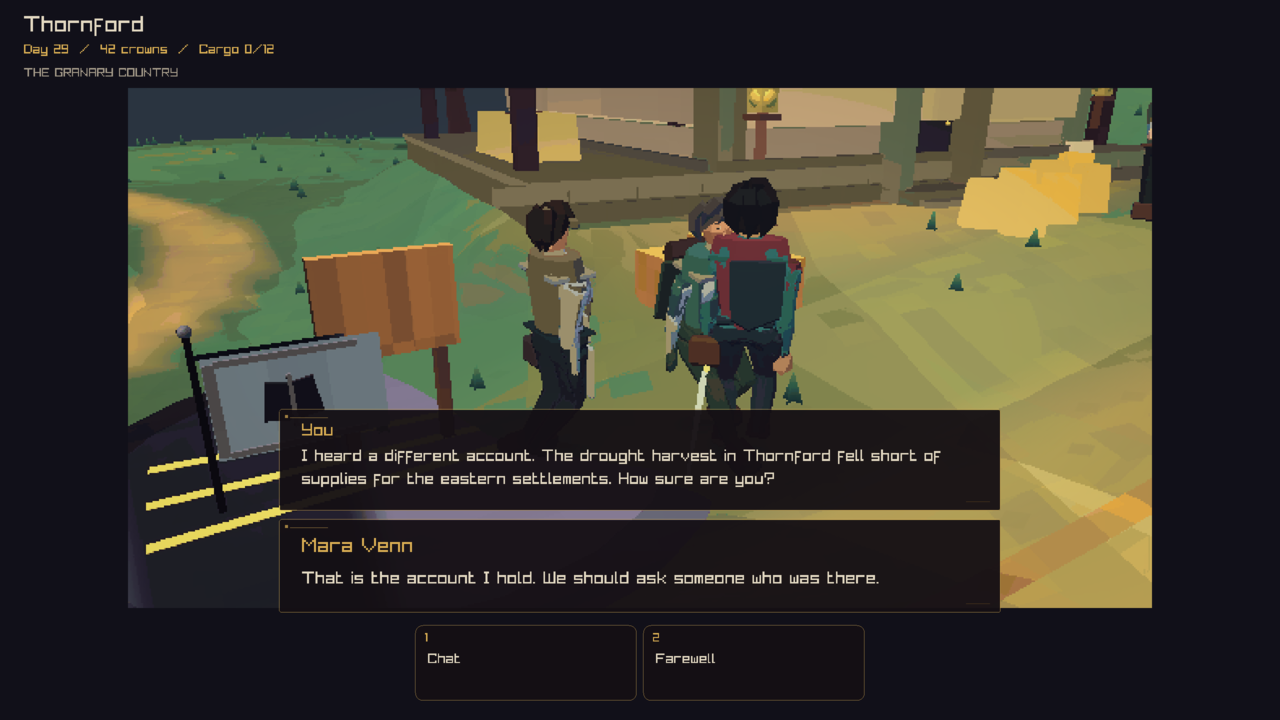
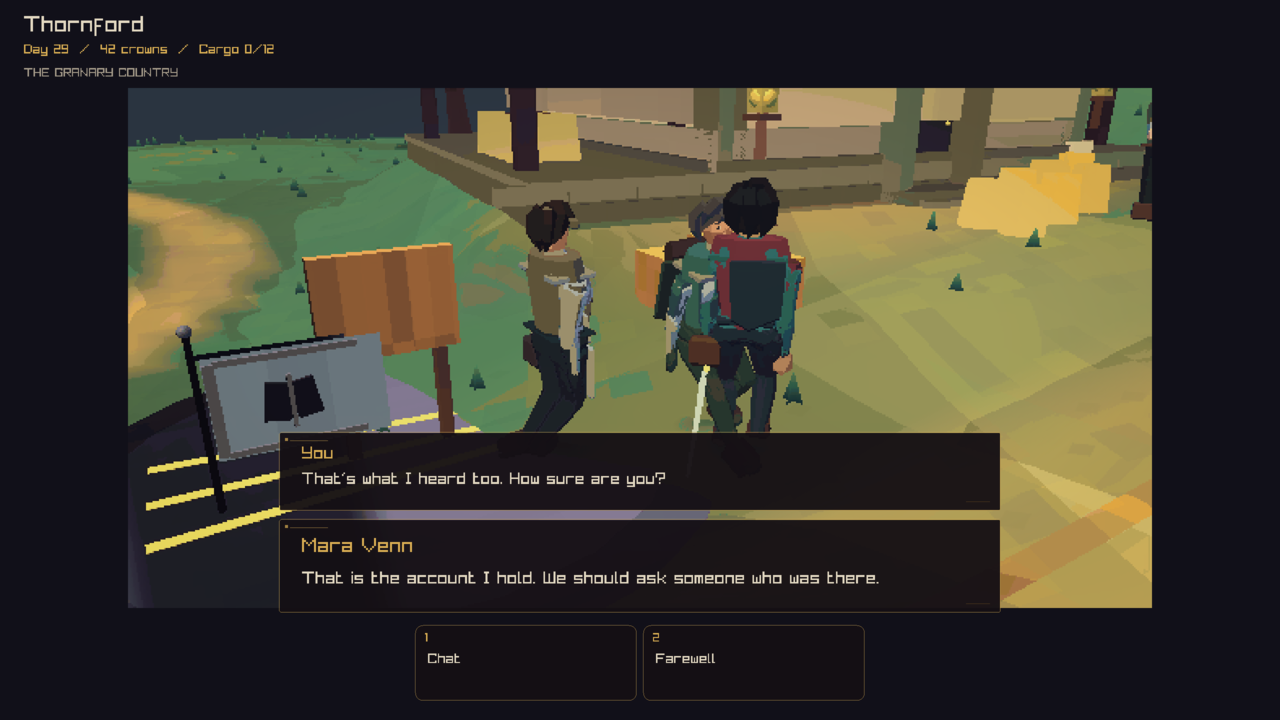
Keep Chat on the current held account and refresh the game capture

Changed region(s): [[0.2188, 0.55, 0.7812, 0.6722], [0.5312, 0.1833, 0.5938, 0.2444], [0.8125, 0.1528, 0.8438, 0.2139]]

diff --git a/src/client/main.c b/src/client/main.c
@@ -6127,8 +6127,10 @@ static bool ClientStartChat(const CcSim *sim, LocalState *local, uint32_t voice)
     const CcGossipCarrier *player = CcSimGossipCarrier(sim, sim->player.id);
     const CcGossipCarrier *listener = CcSimGossipCarrier(sim, local->conversation_character_id);
     if (player == NULL || listener == NULL || core_conversation.model == NULL) return false;
+    int32_t preferred = local->conversation_gossip_slot >= 0 ? local->conversation_gossip_slot :
+        CcSimNextUntoldStory(sim, local->conversation_character_id, NULL);
     for (int32_t attempt = -1; attempt < CC_MAX_GOSSIP; ++attempt) {
-        int32_t slot = attempt < 0 ? local->conversation_gossip_slot : attempt;
+        int32_t slot = attempt < 0 ? preferred : attempt;
         if (slot < 0 || slot >= CC_MAX_GOSSIP) continue;
         uint32_t bit = UINT32_C(1) << (uint32_t)slot;
         if ((player->stories & listener->stories & bit) == 0U) continue;

diff --git a/docs/reviews/core-chat-2026-09-12/README.md b/docs/reviews/core-chat-2026-09-12/README.md
@@ -20,4 +20,4 @@ The fixture runs the real simulation, exchanges local news, and calls the same m
 
 The model fixture checks 133 complete outputs and 302 tokenizer inputs against ZERO. The conversation test independently regenerates the NPC reply using the saved player sentence to verify the handoff. Tests also check redraw stability, repeated input, cancellation, bounded history, model integrity, and preservation of the simulation after the news exchange.
 
-The strict full native suite passed all 183 tests. Static analysis passed with the existing reviewed baseline. The browser build packages the 5,044,766-byte model separately; its startup data pack is 5,872,138 bytes, within the existing 10 MiB limit. The browser fetches the model before play, then generates locally.
+Validation uses the full native test suite and static analysis with the existing reviewed baseline. Run `ctest --test-dir out/build/native-core --output-on-failure` and `python3 tools/static_analysis.py` from the repository root. The browser build packages the 5,044,766-byte model separately; its startup data pack is 5,872,138 bytes, within the existing 10 MiB limit. The browser fetches the model before play, then generates locally.
